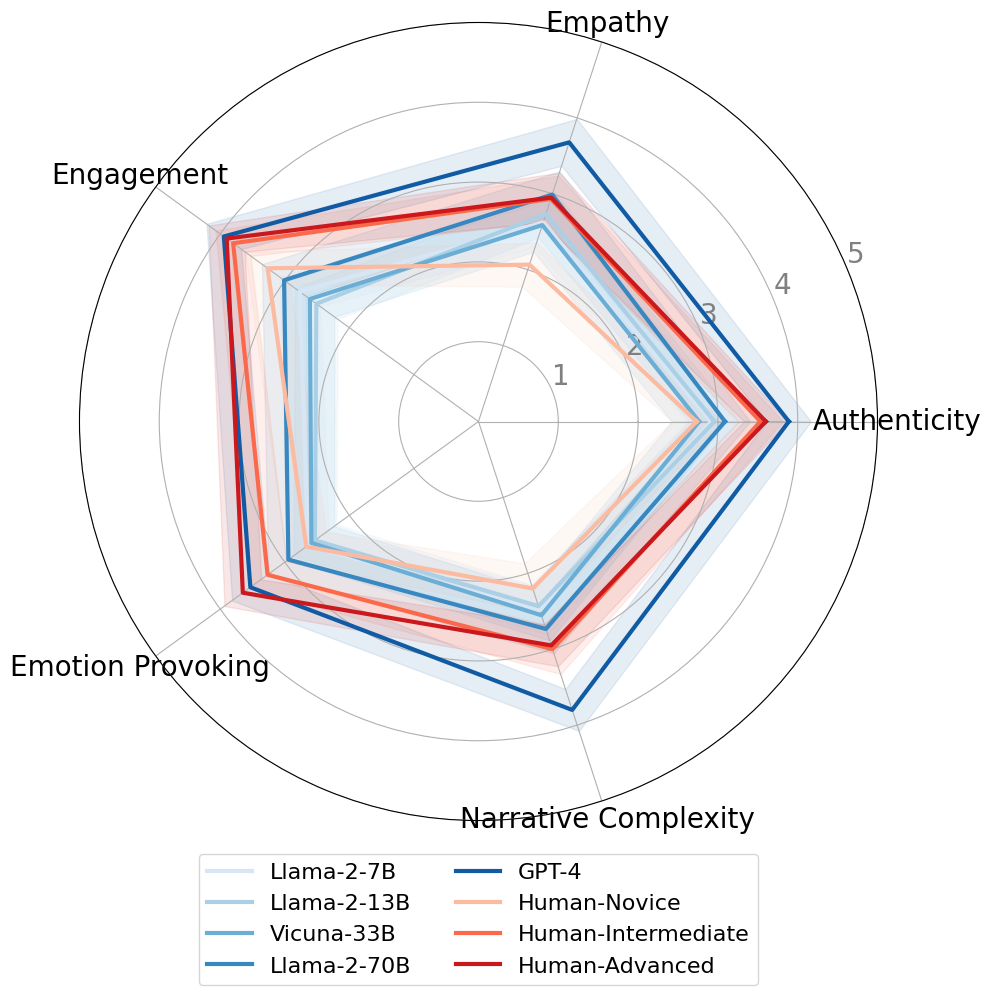
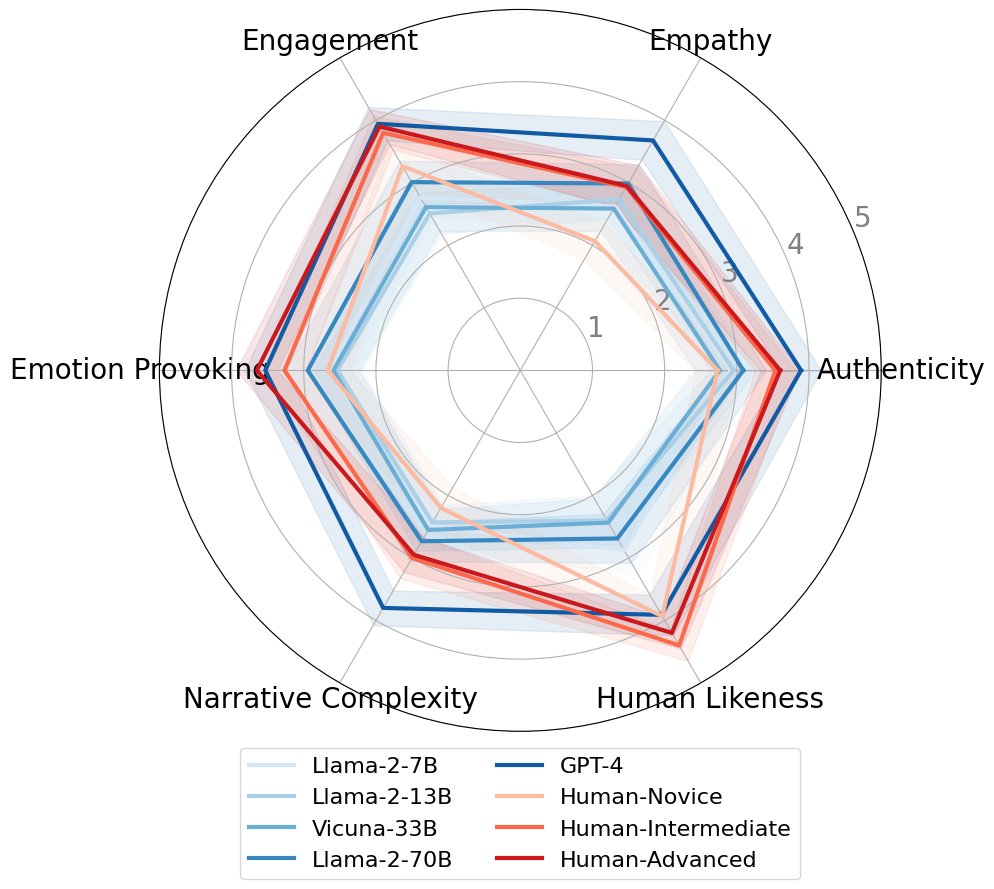
adding human likeness back into the plots (for now)

diff --git a/story_eval/visualize.py b/story_eval/visualize.py
@@ -122,9 +122,9 @@ def plot_cdf(df, models, title, sort_order, colors, smooth=True, save_path=None)
 def plot_component_corrs(df, title=None, save_path=None):
     components = [
         'authenticity_score', 'empathy_score', 'engagement_score', 
-        'emotion_provoking_score', 'narrative_complexity_score']
+        'emotion_provoking_score', 'narrative_complexity_score', 'human_likeness_score']
     
-    labels = ["AUTH", "EMP", "ENG", "PROV", "NCOM"]
+    labels = ["AUTH", "EMP", "ENG", "PROV", "NCOM", "HUM"]
     correlation_matrix = df[components].corr()
 
     # # Getting the Upper Triangle of the co-relation matrix
@@ -151,7 +151,7 @@ if __name__ == "__main__":
     import os
 
     scores_path = "./human_study/data/processed/human_annotations.csv"
-    human_ratings_df = pd.read_csv(scores_path).drop(columns=["human_likeness_score"])
+    human_ratings_df = pd.read_csv(scores_path)# .drop(columns=["human_likeness_score"])
 
     sort_order = {
         "Llama-2-7B" :        0, 

diff --git a/story_eval/analyze.py b/story_eval/analyze.py
@@ -239,7 +239,6 @@ class AnnotationAnalyzer:
         df.loc['Average'] = df.mean(numeric_only=True)
         df.at['Average', 'score'] = 'Average'
         return df
-
     
 class ZScoreAggregator:
 
@@ -347,7 +346,7 @@ if __name__ == "__main__":
     analyzer.perform_pairwise_ttests(human_ratings_df, col="model_short").to_csv(f'./story_eval/tables/human_study_pairwise_t_tests_model.csv', index=False)
     analyzer.perform_anova(human_ratings_df, col="participant_id").to_csv(f'./story_eval/tables/human_study_anova_participant_id.csv', index=False)
     analyzer.perform_anova(human_ratings_df, col="model_short").to_csv(f'./story_eval/tables/human_study_anova_model.csv', index=False)
-
+    
     save_path = f"./story_eval/tables/human_vs_{llm_name}_iaa_raw.csv"
 
     if not os.path.exists(save_path):
